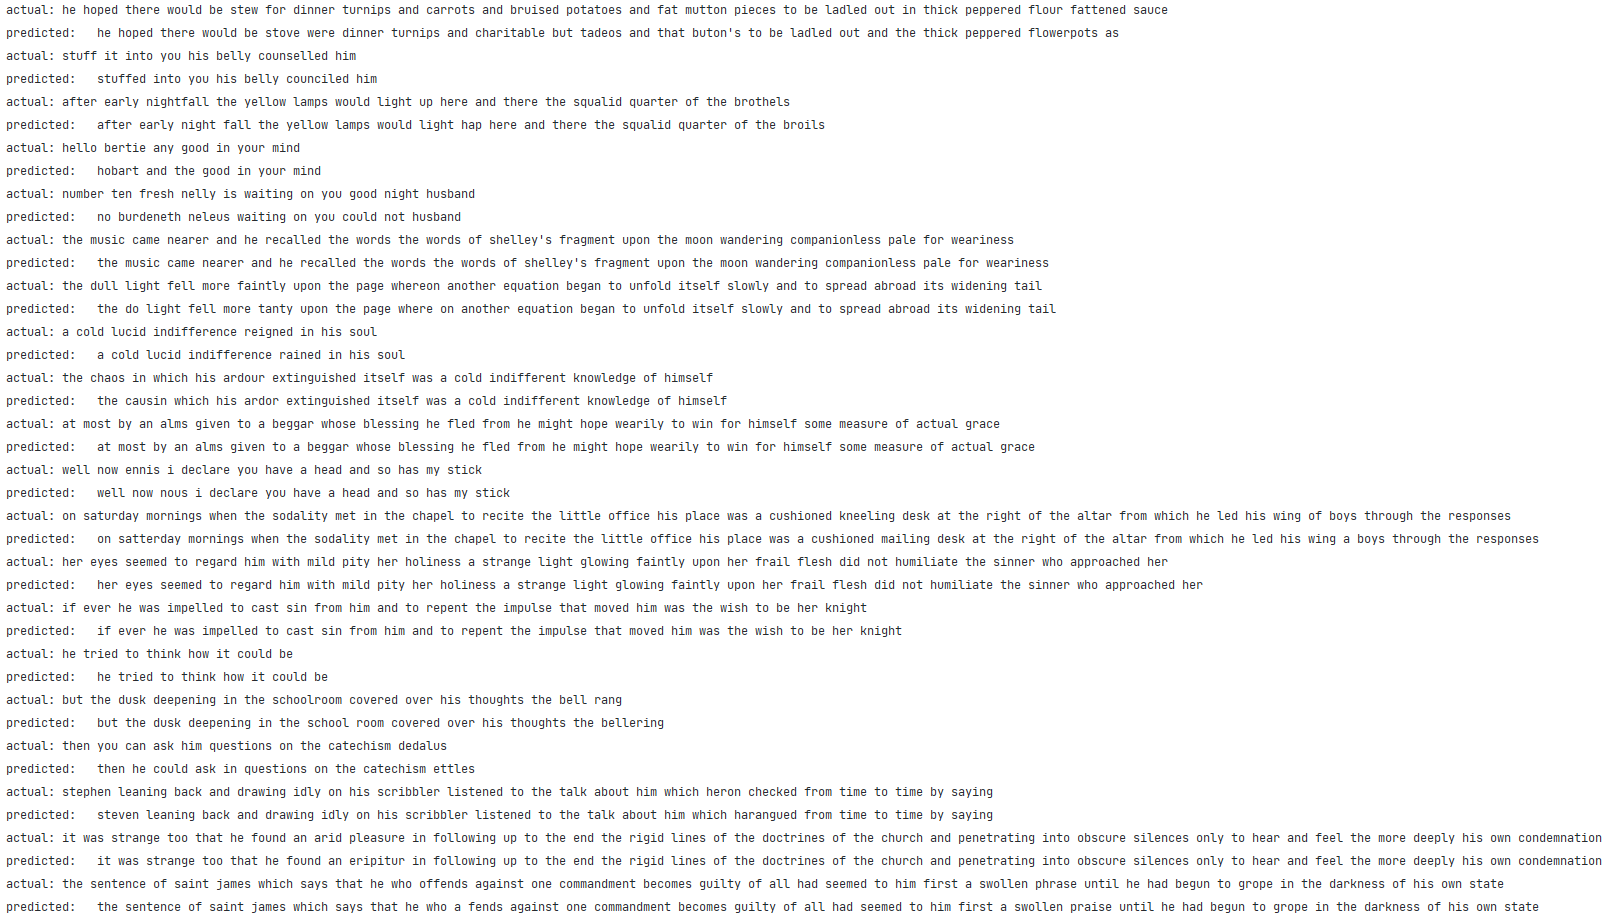
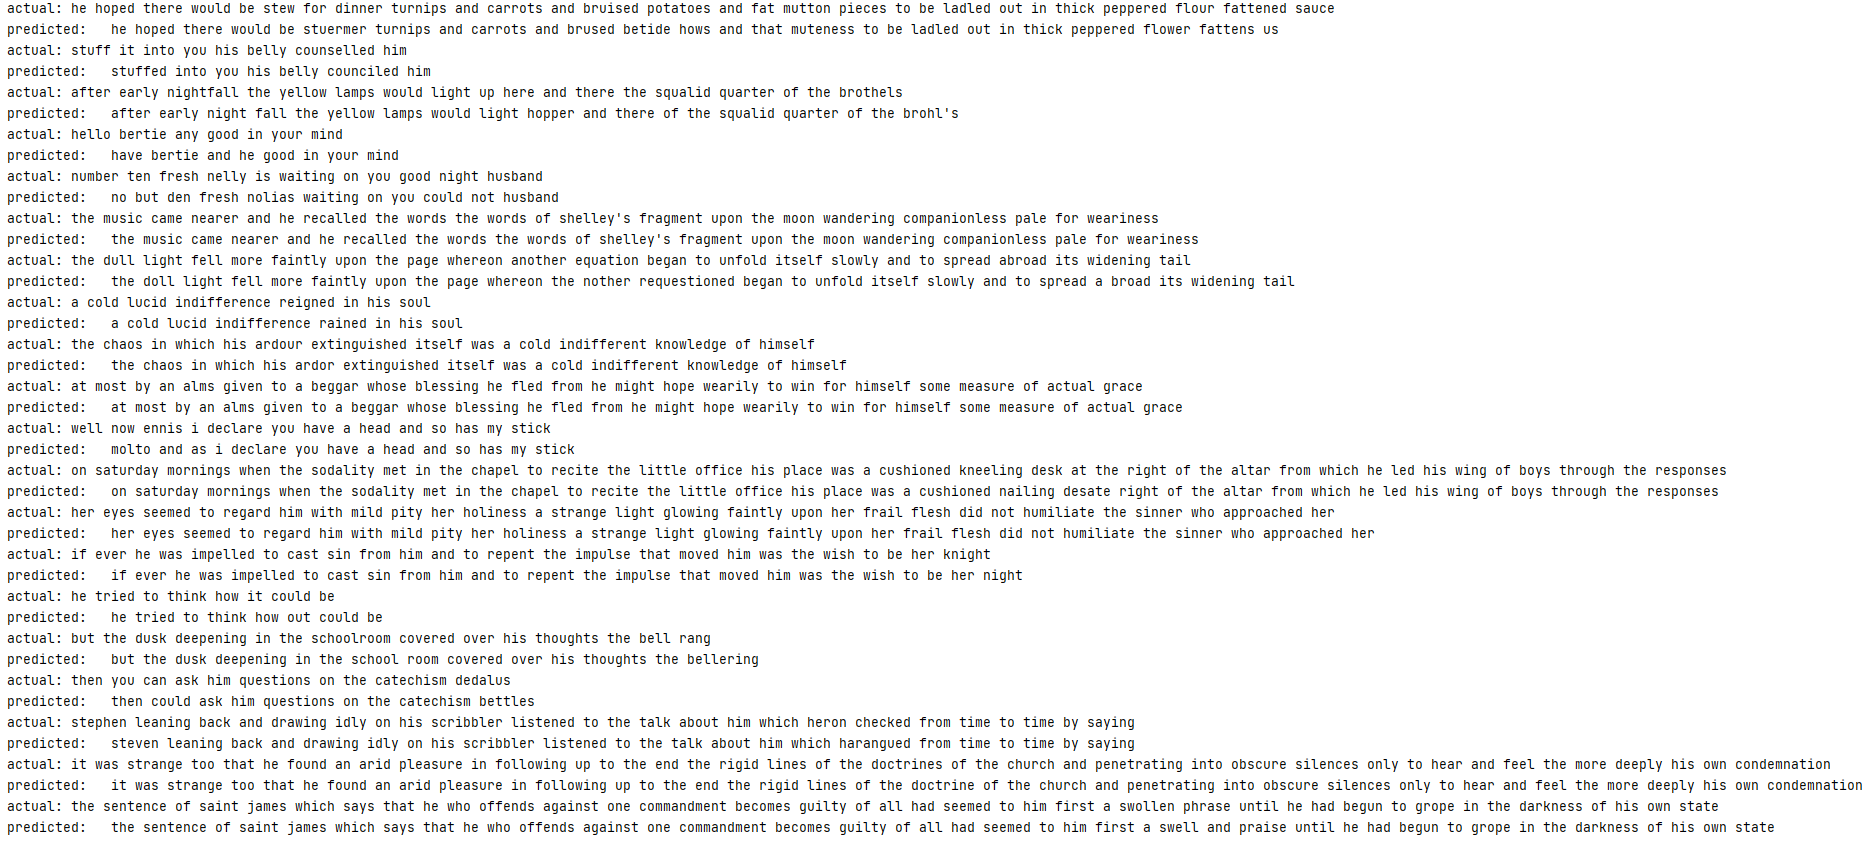
Refactoring

Changed region(s): [[0.0, 0.0, 0.9926, 0.987]]

diff --git a/librispeech.py b/librispeech.py
@@ -61,10 +61,6 @@ model = SpeechRecognitionModel(n_cnn_layers=3, n_rnn_layers=5, rnn_dim=512, n_cl
 def fit(model, epochs, train_data_loader, valid_data_loader):
     best_leven = 1000
     optimizer = optim.AdamW(model.parameters(), 5e-4)
-    scheduler = torch.optim.lr_scheduler.OneCycleLR(optimizer, max_lr=5e-4,
-                                                    steps_per_epoch=int(len(train_loader)),
-                                                    epochs=epochs,
-                                                    anneal_strategy='linear')
     len_train = len(train_data_loader)
     loss_func = nn.CTCLoss(blank=len(classes)).to(dev)
     for i in range(1, epochs + 1):
@@ -82,7 +78,6 @@ def fit(model, epochs, train_data_loader, valid_data_loader):
             optimizer.zero_grad()
             loss_func(model(spectrograms).log_softmax(2).permute(1, 0, 2), labels, input_lengths, label_lengths).backward()
             optimizer.step()
-            scheduler.step()
             # ================================== TRAINING LEVENSHTEIN DISTANCE =========================================
             if batch_n > (len_train - 5):
                 model.eval()
